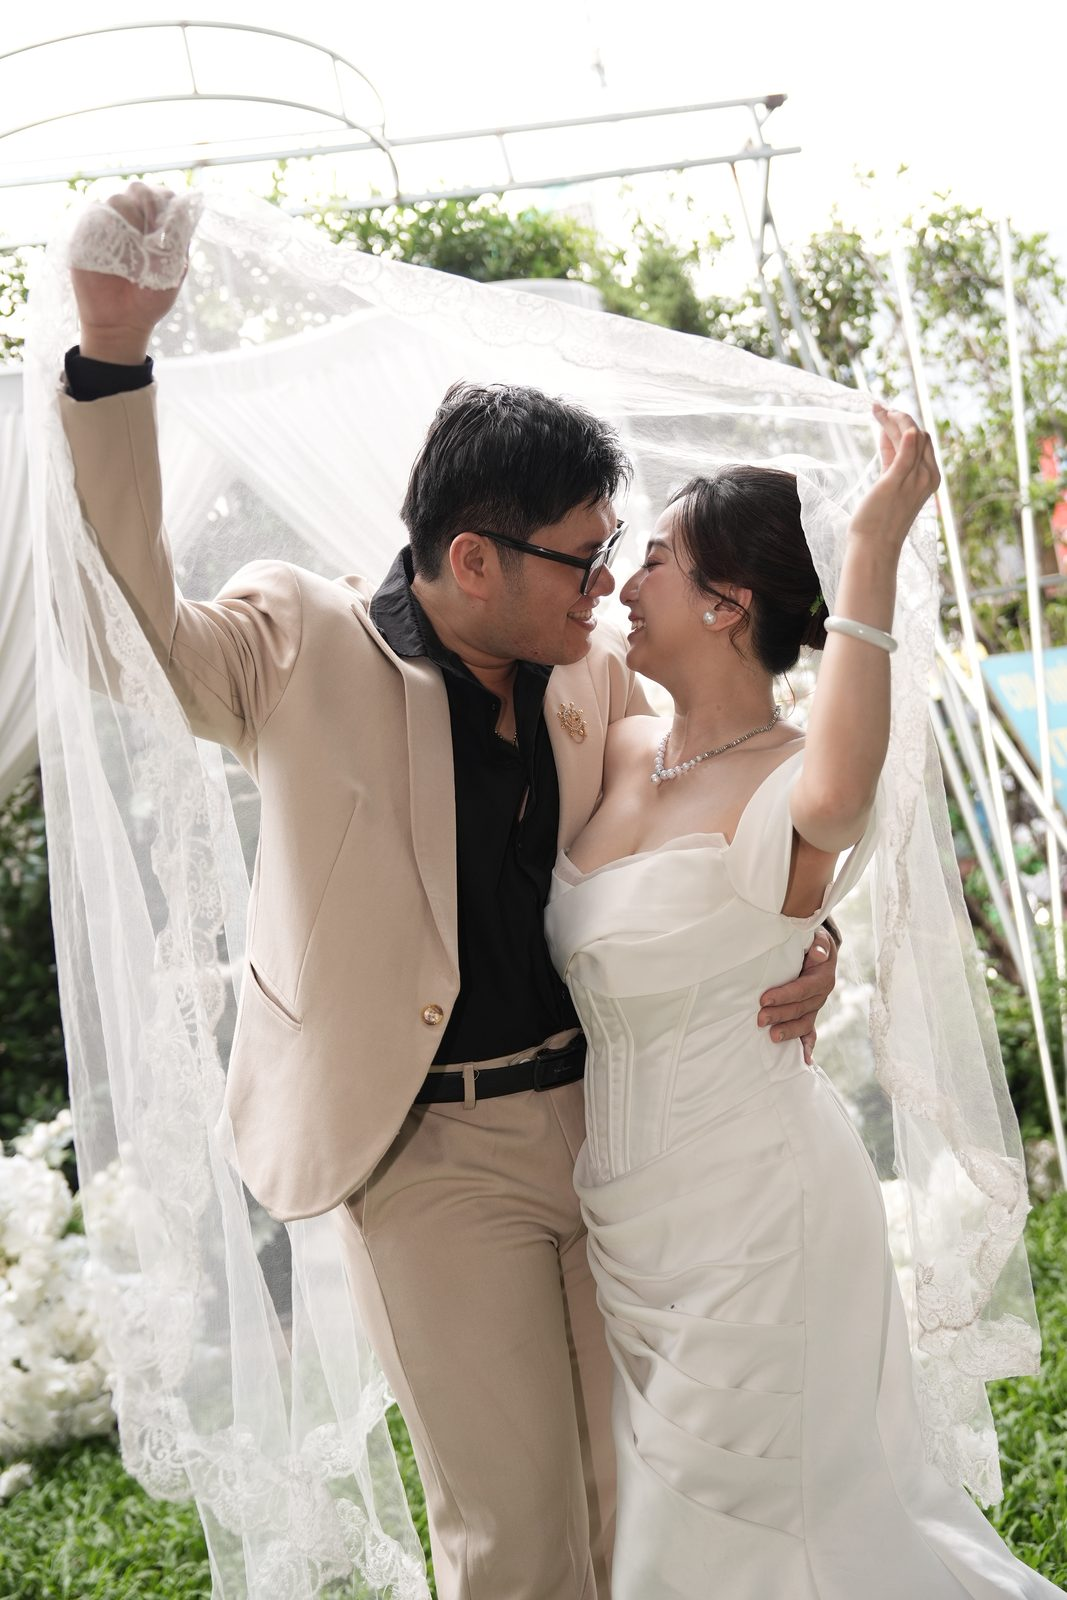
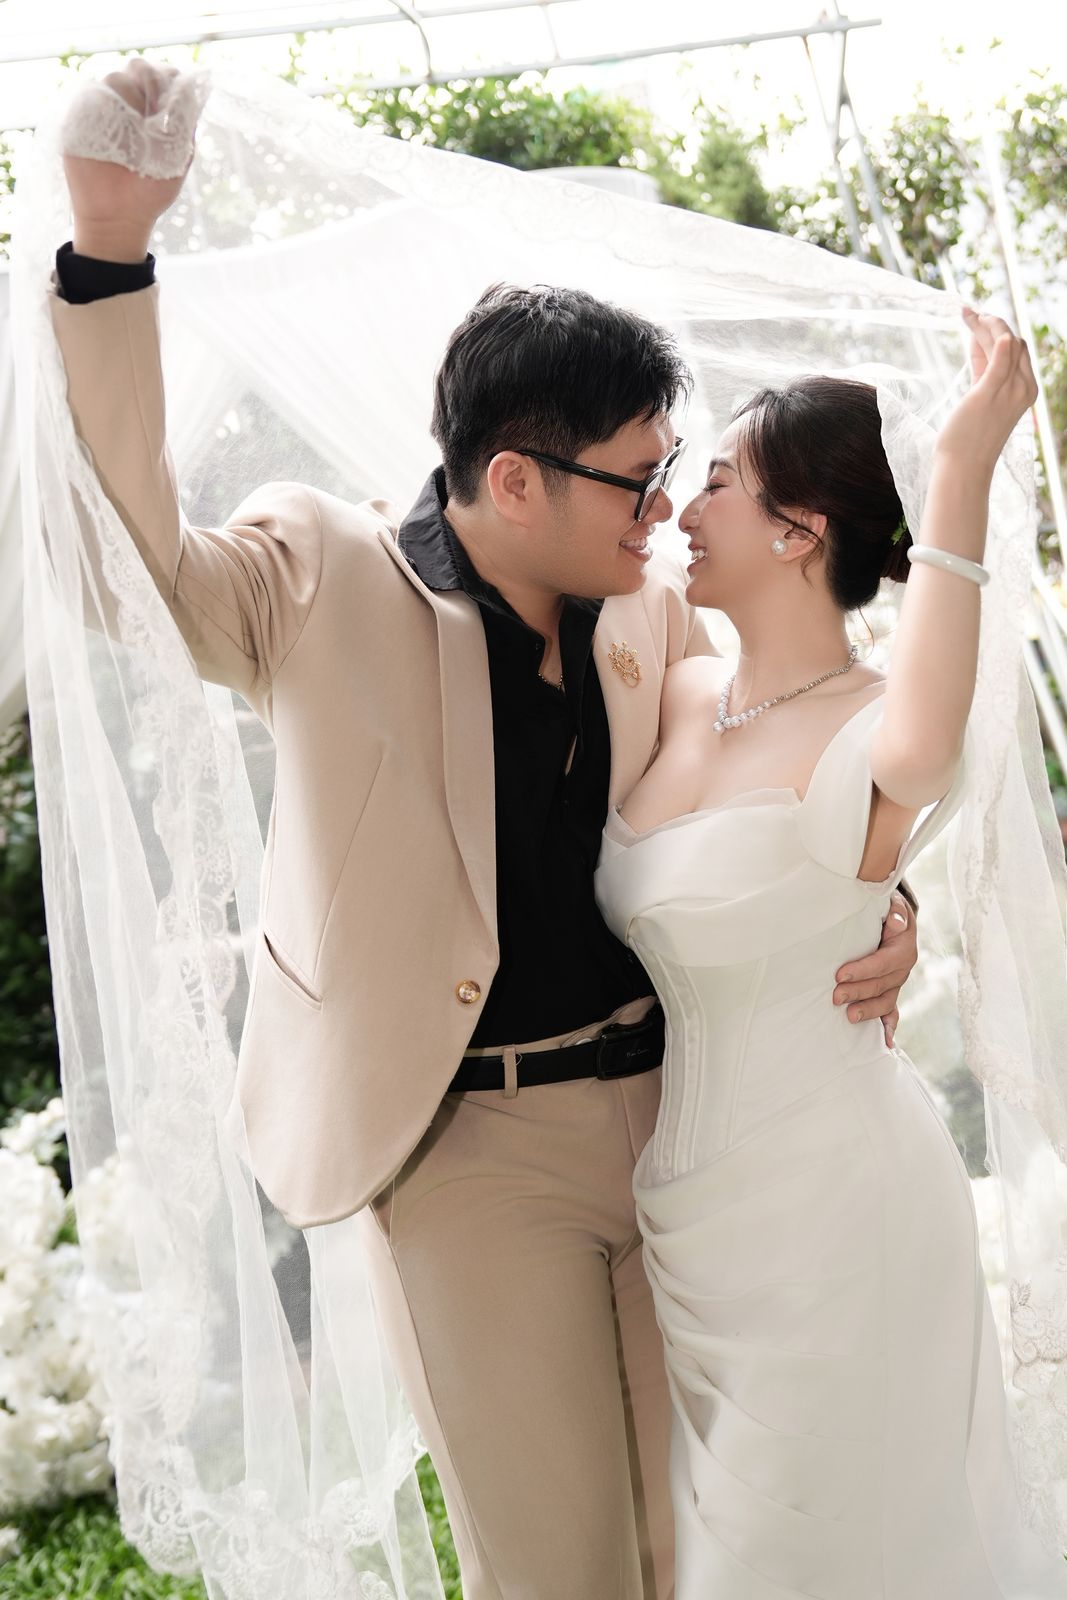
feat(images): thay 20 anh bang ban studio da chinh sua
- Studio chinh da/mat, lam sach nen (bo gian den, may lanh, ong nuoc), cat khung chat hon
- Chu re doi sang tam MIN03027 theo bo studio (truoc la MIN03028)
- Man dau / co dau / chu re / anh chia se: do lai khung cat tren anh studio de giu bo cuc cu
- Doi ten hero-3 -> hero-4, share-cover -> share-cover-2 de dien thoai va Zalo/Facebook khong dinh anh cu

diff --git a/assets/js/config.js b/assets/js/config.js
@@ -22,7 +22,7 @@ const CONFIG = {
     title:       "Đắc Quang & Trúc Nhi — Thiệp mời lễ thành hôn",
     description: "Trân trọng kính mời quý vị đến dự lễ thành hôn của chúng tôi.",
     // Ảnh hiện ra khi dán link vào Zalo/Facebook (nên là ảnh ngang 1200×630)
-    shareImage:  "images/share-cover.jpg",
+    shareImage:  "images/share-cover-2.jpg",
     // Link gốc của thiệp — QR mã hoá đúng chuỗi này. ĐỪNG ĐỔI SAU KHI ĐÃ IN.
     url:         "https://quang-rh.github.io/quang-nhi/"
   },
@@ -62,8 +62,8 @@ const CONFIG = {
     eyebrow:   "Save the date",
     // Ảnh nền màn mở đầu. Để rỗng "" thì dùng nền mực đen trơn có khung vàng,
     // cũng rất sang — dùng tạm được cho tới khi có ảnh cưới.
-    // Đổi ảnh này thì sửa luôn dòng preload "hero-3.jpg" ở đầu index.html.
-    background: "images/hero-3.jpg",
+    // Đổi ảnh này thì sửa luôn dòng preload "hero-4.jpg" ở đầu index.html.
+    background: "images/hero-4.jpg",
     // Ngày hiển thị cho người đọc
     dateText:  "Chủ Nhật, 01 · 11 · 2026",
     lunarText: "Nhằm ngày 23 tháng 9 năm Bính Ngọ",
@@ -221,7 +221,7 @@ const CONFIG = {
      --------------------------------------------------------------- */
   scenery: {
     show:      true,
-    envelope:  "images/hero-3.jpg",
+    envelope:  "images/hero-4.jpg",
     countdown: "images/band/countdown.jpg",
     footer:    "images/band/footer.jpg",
     bands: [

diff --git a/index.html b/index.html
@@ -15,7 +15,7 @@
 <meta property="og:locale" content="vi_VN">
 <meta property="og:title" content="Đắc Quang &amp; Trúc Nhi — Thiệp mời lễ thành hôn">
 <meta property="og:description" content="Trân trọng kính mời quý vị đến dự lễ thành hôn của chúng tôi.">
-<meta property="og:image" content="https://quang-rh.github.io/quang-nhi/images/share-cover.jpg">
+<meta property="og:image" content="https://quang-rh.github.io/quang-nhi/images/share-cover-2.jpg">
 <meta property="og:image:width" content="1200">
 <meta property="og:image:height" content="630">
 <meta property="og:image:alt" content="Đắc Quang và Trúc Nhi">
@@ -26,7 +26,7 @@
 
 <!-- Tải ảnh màn đầu NGAY khi mở link, song song với chữ và CSS, khỏi chờ JS chạy xong.
      Đổi hero.background / scenery.envelope trong config.js thì sửa luôn đường dẫn này. -->
-<link rel="preload" as="image" href="images/hero-3.jpg" fetchpriority="high">
+<link rel="preload" as="image" href="images/hero-4.jpg" fetchpriority="high">
 
 <!-- Font: Cormorant Garamond (chữ trang trí) + Be Vietnam Pro (chữ đọc)
      Cả hai đều có bộ ký tự tiếng Việt đầy đủ. -->

diff --git a/README.md b/README.md
@@ -72,7 +72,7 @@ Sửa xong, xem thử trên máy trước khi đẩy lên (xem mục 4).
 |---|---|---|---|
 | `images/` | `hero.jpg` | Ảnh nền màn mở đầu | ngang, 2000px, < 500KB |
 | `images/` | `groom.jpg` · `bride.jpg` | Ảnh chân dung hai bạn | vuông, 800px |
-| `images/` | `share-cover.jpg` | Ảnh hiện khi dán link vào Zalo/FB (đổi tên file thì sửa luôn `og:image` trong `index.html`) | 1200×630 |
+| `images/` | `share-cover-2.jpg` | Ảnh hiện khi dán link vào Zalo/FB (đổi tên file thì sửa luôn `og:image` trong `index.html`) | 1200×630 |
 | `images/` | `favicon.png` | Icon nhỏ trên tab trình duyệt | 64×64 |
 | `images/` | `apple-touch-icon.png` | Icon khi lưu thiệp ra màn hình chính iPhone | 180×180 |
 | `images/album/` | `01.jpg`, `02.jpg`... | Ảnh cưới trong album | < 400KB mỗi tấm |
